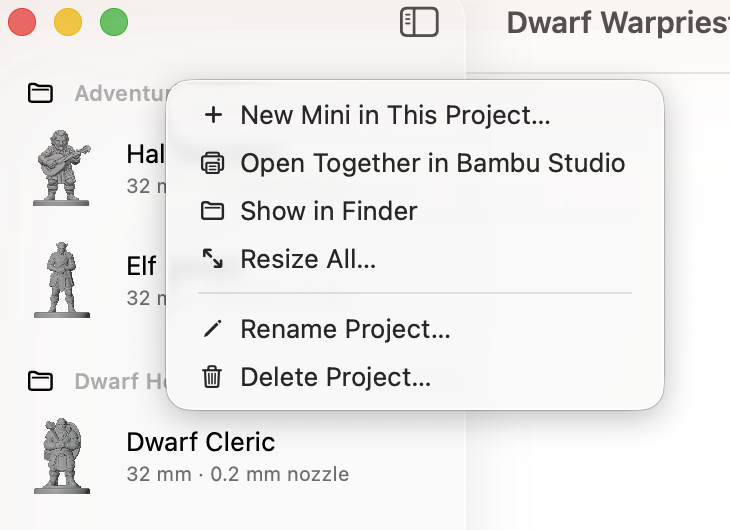
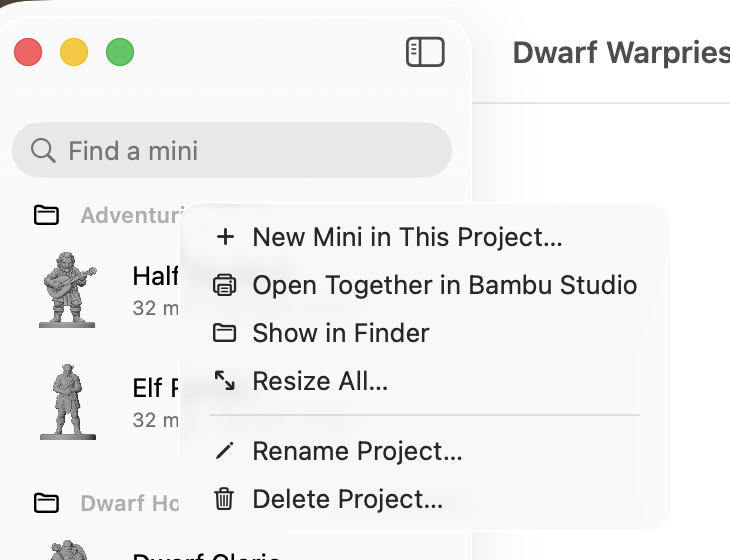
change: keep the mini page's toolbar items in the window's toolbar, add Customize Toolbar…, and retake the sidebar screenshots

diff --git a/app/Sources/Mimic/MiniDetail.swift b/app/Sources/Mimic/MiniDetail.swift
@@ -4,7 +4,7 @@ import QuickLook
 import SwiftUI
 
 /// A mini's page: the 3D view fills it, running up under the toolbar; Open in the slicer and
-/// More are in the toolbar; its size, previews, versions and print tips are in the details
+/// More are in the toolbar (`MiniToolbarItems`); its size, previews, versions and print tips are in the details
 /// panel on the right, which the toolbar shows and hides.
 struct MiniDetail: View {
     let mini: Mini
@@ -35,7 +35,6 @@ struct MiniDetail: View {
         let trashable = versions.filter { $0.name != mini.name && $0.name != model.current?.name }.count
         page
             .navigationTitle(mini.displayName)
-            .toolbar(id: "mini") { toolbar(kind: settings.kind ?? .character) }
             .inspector(isPresented: $model.showDetails) {
                 details(settings, versions: versions, canKeep: trashable > 0)
                     .inspectorColumnWidth(min: 240, ideal: 290, max: 420)
@@ -175,41 +174,6 @@ struct MiniDetail: View {
             .padding(12)
             .background(.regularMaterial, in: .rect(cornerRadius: 16))  // content, not a control: no glass
             .padding(12)
-        }
-    }
-
-    /// More (Copies first), Open in the slicer, and the details panel's toggle: one item each,
-    /// so each can be moved or taken out in Customize Toolbar… (#482).
-    @ToolbarContentBuilder private func toolbar(kind: MiniKind) -> some CustomizableToolbarContent {
-        ToolbarItem(id: "more", placement: .primaryAction) {
-            Menu {
-                MiniActionButton(action: .copies, minis: [mini])
-                MiniActionButton(action: .resize, minis: [mini])
-                MiniActionButton(action: .editAndMakeAgain, minis: [mini])
-                MiniActionButton(action: .exportForTabletop, minis: [mini])
-                MiniActionButton(action: .showInFinder, minis: [mini])
-            } label: {
-                Label("More", systemImage: "ellipsis")
-            }
-            .help("Print copies, resize, make it again with changes, export it for a virtual tabletop, or show it in Finder")
-        }
-        ToolbarItem(id: "open", placement: .primaryAction) {
-            // Prominent only once it works: until then the page's own button (Try Again, Build
-            // Shape) is the one to press, and a pale disabled one here shouldn't outshine it.
-            if mini.finished {
-                MiniActionButton(action: .open, minis: [mini], showsIcon: false)
-                    .buttonStyle(.glassProminent)
-                    .tourCallout(.mini)
-            } else {
-                MiniActionButton(action: .open, minis: [mini], showsIcon: false)
-                    .tourCallout(.mini)
-            }
-        }
-        ToolbarItem(id: "details", placement: .primaryAction) {
-            Button { model.showDetails.toggle() } label: {
-                Label(showDetails ? "Hide Details" : "Show Details", systemImage: "sidebar.trailing")
-            }
-            .help(showDetails ? "Hide the details panel (⌃⌘I)" : "Show size, previews, versions and print tips (⌃⌘I)")
         }
     }
 
@@ -440,5 +404,53 @@ struct Thumbnail: View {
         .animation(reduceMotion ? nil : .easeOut(duration: 0.4), value: image.map(ObjectIdentifier.init))
         // Read off the main thread: a picture can be a few megabytes.
         .task(id: "\(url?.path ?? "")\(version)") { [url] in image = await Task.detached { url.flatMap(NSImage.init(contentsOf:)) }.value }
+    }
+}
+
+/// The mini page's toolbar items: More (Copies first), Open in the slicer, and the details
+/// panel's toggle, one item each so each can be moved or taken out in Customize Toolbar…
+/// (#482). In the window's toolbar, empty without a mini's page, rather than on the page: the
+/// page's own `.toolbar(id:)` listed them twice, and NSToolbar stopped Mimic on the next mini.
+struct MiniToolbarItems: CustomizableToolbarContent {
+    let model: AppModel
+
+    /// What the page is showing, as ContentView picks it.
+    private var mini: Mini? { model.setup.installed ? model.selected : nil }
+
+    var body: some CustomizableToolbarContent {
+        ToolbarItem(id: "more", placement: .primaryAction) {
+            if let mini {
+                Menu {
+                    MiniActionButton(action: .copies, minis: [mini])
+                    MiniActionButton(action: .resize, minis: [mini])
+                    MiniActionButton(action: .editAndMakeAgain, minis: [mini])
+                    MiniActionButton(action: .exportForTabletop, minis: [mini])
+                    MiniActionButton(action: .showInFinder, minis: [mini])
+                } label: {
+                    Label("More", systemImage: "ellipsis")
+                }
+                .help("Print copies, resize, make it again with changes, export it for a virtual tabletop, or show it in Finder")
+            }
+        }
+        ToolbarItem(id: "open", placement: .primaryAction) {
+            // Prominent only once it works: until then the page's own button (Try Again, Build
+            // Shape) is the one to press, and a pale disabled one here shouldn't outshine it.
+            if let mini, mini.finished {
+                MiniActionButton(action: .open, minis: [mini], showsIcon: false)
+                    .buttonStyle(.glassProminent)
+                    .tourCallout(.mini)
+            } else if let mini {
+                MiniActionButton(action: .open, minis: [mini], showsIcon: false)
+                    .tourCallout(.mini)
+            }
+        }
+        ToolbarItem(id: "details", placement: .primaryAction) {
+            if mini != nil {
+                Button { model.showDetails.toggle() } label: {
+                    Label(model.showDetails ? "Hide Details" : "Show Details", systemImage: "sidebar.trailing")
+                }
+                .help(model.showDetails ? "Hide the details panel (⌃⌘I)" : "Show size, previews, versions and print tips (⌃⌘I)")
+            }
+        }
     }
 }

diff --git a/app/Sources/Mimic/MainWindowChrome.swift b/app/Sources/Mimic/MainWindowChrome.swift
@@ -22,7 +22,7 @@ struct MainWindowChrome: ViewModifier {
             .onGeometryChange(for: CGSize.self) { $0.size } action: { room = $0 }
             // Customisable (View → Customize Toolbar…), as the mini's page's items are (#482).
             .toolbar(id: "main") {
-                // What's going on, then New Mini apart from it; the mini's page adds its own group.
+                // What's going on, then New Mini apart from it, then the mini page's items.
                 ToolbarItem(id: "update", placement: .primaryAction) { UpdateToolbarItem() }
                 ToolbarItem(id: "progress", placement: .primaryAction) { JobToolbarItem() }
                 ToolbarItem(id: "needsSetup", placement: .primaryAction) { NeedsSetupItem() }
@@ -33,6 +33,7 @@ struct MainWindowChrome: ViewModifier {
                         .disabled(!model.setup.installed)
                         .tourCallout(.newMini)
                 }
+                MiniToolbarItems(model: model)
             }
             // [room]: read here, so a new window size reaches the sheets (read only inside the
             // closure, the sheet kept getting the starting 640).

diff --git a/app/Sources/Mimic/MimicApp.swift b/app/Sources/Mimic/MimicApp.swift
@@ -55,6 +55,7 @@ struct MimicApp: App {
             }
             GalleryCommands(model: model)
             SidebarCommands()
+            ToolbarCommands()  // View → Show Toolbar and Customize Toolbar…
             ImportFromDevicesCommands()  // File → Import from iPhone, for New Mini's picture
             MiniCommands(model: model, reporter: delegate.reporter)
             CommandGroup(replacing: .help) {

diff --git a/docs/shortcuts.md b/docs/shortcuts.md
@@ -110,6 +110,8 @@ Click a preview in the details panel first.
 
 | Item | What it does |
 |---|---|
+| **Show Toolbar** / **Hide Toolbar** | Shows or hides the toolbar |
+| **Customize Toolbar…** | Choose which buttons the toolbar shows, and in what order |
 | **Sort By** ▸ | **Date Made**, **Name** or **Size** |
 | **Show** ▸ | **All Minis**, **Characters**, **Objects** or **Unfinished Minis** |
 | **Show Sidebar** ++ctrl+cmd+s++ | Shows or hides the list of minis |
@@ -200,6 +202,9 @@ Resize…** for a resize).
 | **Show Details** / **Hide Details** | On a mini's page: the details panel, ++ctrl+cmd+i++ |
 
 A note about a new version of Mimic also appears in the toolbar when there is one.
+
+To move a button or take it out, choose **View → Customize Toolbar…** (or right-click the toolbar)
+and drag it. Dragging the default set into the toolbar there puts them all back.
 
 ## The Dock icon's menu
 
